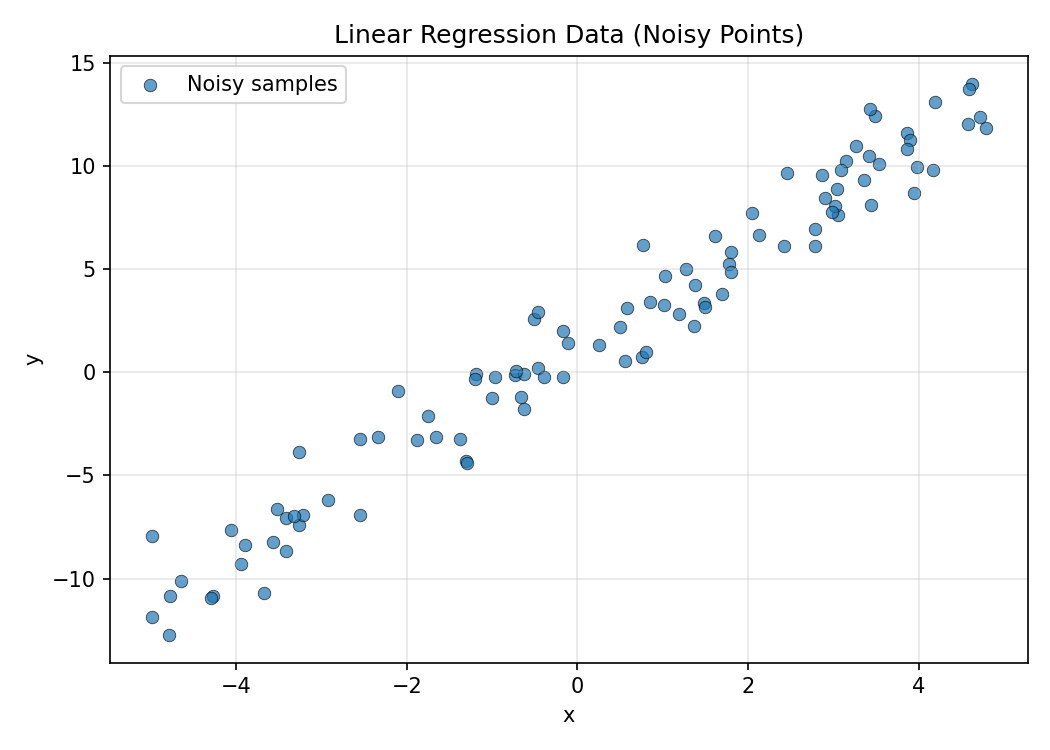
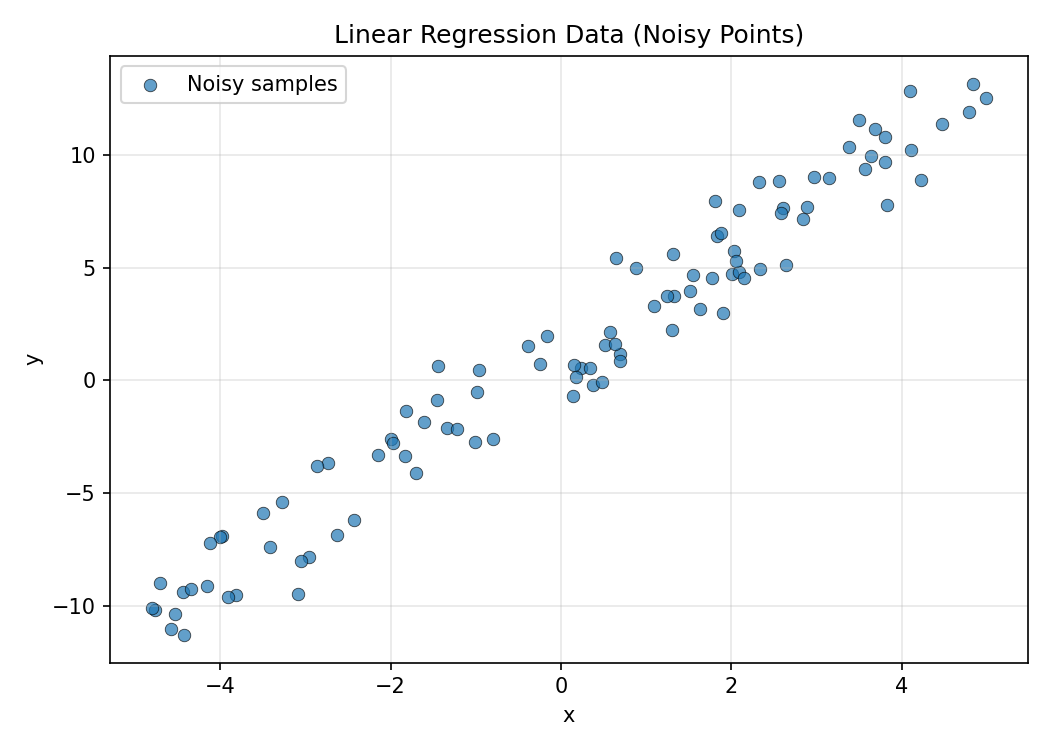
assignment02

diff --git a/SimpleLinearRegression/Assignment02/draw_loss_contour.py b/SimpleLinearRegression/Assignment02/draw_loss_contour.py
@@ -7,13 +7,17 @@
 
 在完成作业一之后运行：python draw_loss_contour.py
 """
-
+import os
 import numpy as np
 import pandas as pd
 import matplotlib.pyplot as plt
 
-CSV_PATH = "linear_regression_data.csv"
-FIG_PATH = "loss_contour.png"
+
+SCRIPT_DIR = os.path.dirname(os.path.abspath(__file__))
+DATA_DIR = os.path.join(SCRIPT_DIR, "..", "data") 
+#os.makedirs(DATA_DIR,exist_ok=True)
+CSV_PATH = os.path.join(DATA_DIR,"linear_regression_data.csv")
+FIG_PATH = os.path.join(DATA_DIR,"loss_contour.png")
 
 
 def load_data(csv_path=CSV_PATH):
@@ -37,7 +41,8 @@ def compute_loss(w, b, x, y):
         带 1/(2m) 系数的均方误差损失。
     """
     # TODO：实现损失函数
-    raise NotImplementedError
+    return (np.sum((np.dot(x,w)+b-y)**2))/(2*x.shape[0])
+
 
 
 def normal_equation_solution(x, y):
@@ -49,7 +54,9 @@ def normal_equation_solution(x, y):
         最小二乘意义下的最优斜率和截距。
     """
     # TODO：构造设计矩阵并求解正规方程
-    raise NotImplementedError
+    x=np.c_[np.ones((x.shape[0],1)),x]
+    return tuple(np.linalg.inv((x.T.dot(x))).dot(x.T).dot(y))
+    
 
 
 def draw_contour(x, y, save_path=FIG_PATH):
@@ -66,7 +73,7 @@ def draw_contour(x, y, save_path=FIG_PATH):
 
     # TODO：计算每个网格点上的 Z[i, j] = J(W[i, j], B[i, j], x, y)。
     #       请勿使用 Python 的 for 循环；请使用 NumPy 的广播机制。
-    Z = None  # 用你的代码替换此处
+    Z =  (1/2) *np.mean((W[:,:,None]*x[None,None,:]+B[:,:,None]-y[None,None,:])**2,axis=2)
 
     fig, ax = plt.subplots(figsize=(7, 6))
     contour = ax.contour(W, B, Z, levels=20, cmap="viridis")

diff --git a/SimpleLinearRegression/Assignment01/linear_regression_data_generation.py b/SimpleLinearRegression/Assignment01/linear_regression_data_generation.py
@@ -18,8 +18,10 @@ RANDOM_SEED = 42
 # CSV_PATH = "linear_regression_data.csv"
 # FIG_PATH = "linear_regression_data.png"
 SCRIPT_DIR = os.path.dirname(os.path.abspath(__file__))
-CSV_PATH = os.path.join(SCRIPT_DIR, "linear_regression_data.csv")
-FIG_PATH = os.path.join(SCRIPT_DIR, "linear_regression_data.png")
+DATA_DIR = os.path.join(SCRIPT_DIR, "..", "data") 
+#os.makedirs(DATA_DIR,exist_ok=True)
+CSV_PATH = os.path.join(DATA_DIR, "linear_regression_data.csv")
+FIG_PATH = os.path.join(DATA_DIR, "linear_regression_data.png")
 
 def generate_data(n_points=N_POINTS, w_true=W_TRUE, b_true=B_TRUE, noise_std=NOISE_STD, seed=RANDOM_SEED):
     rng = np.random.default_rng(seed)